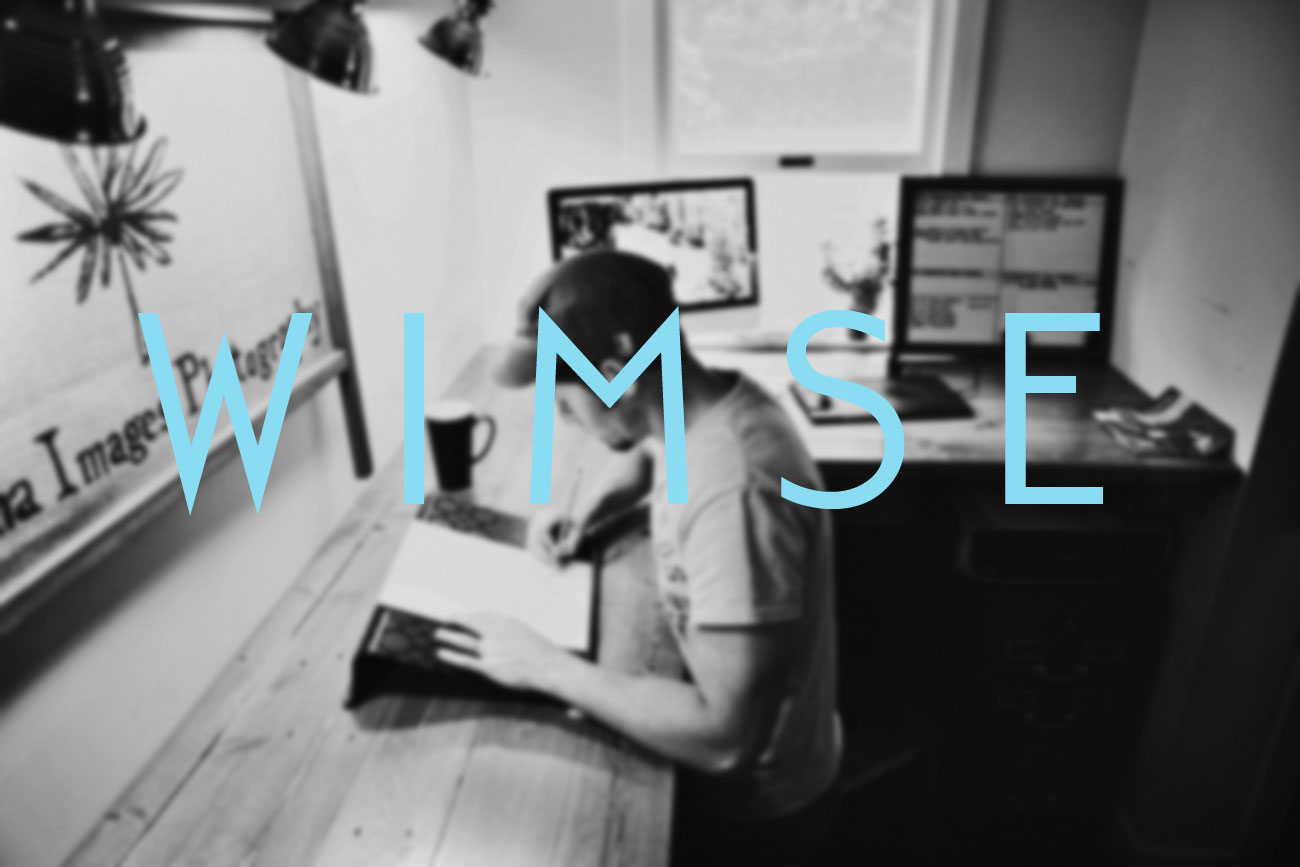
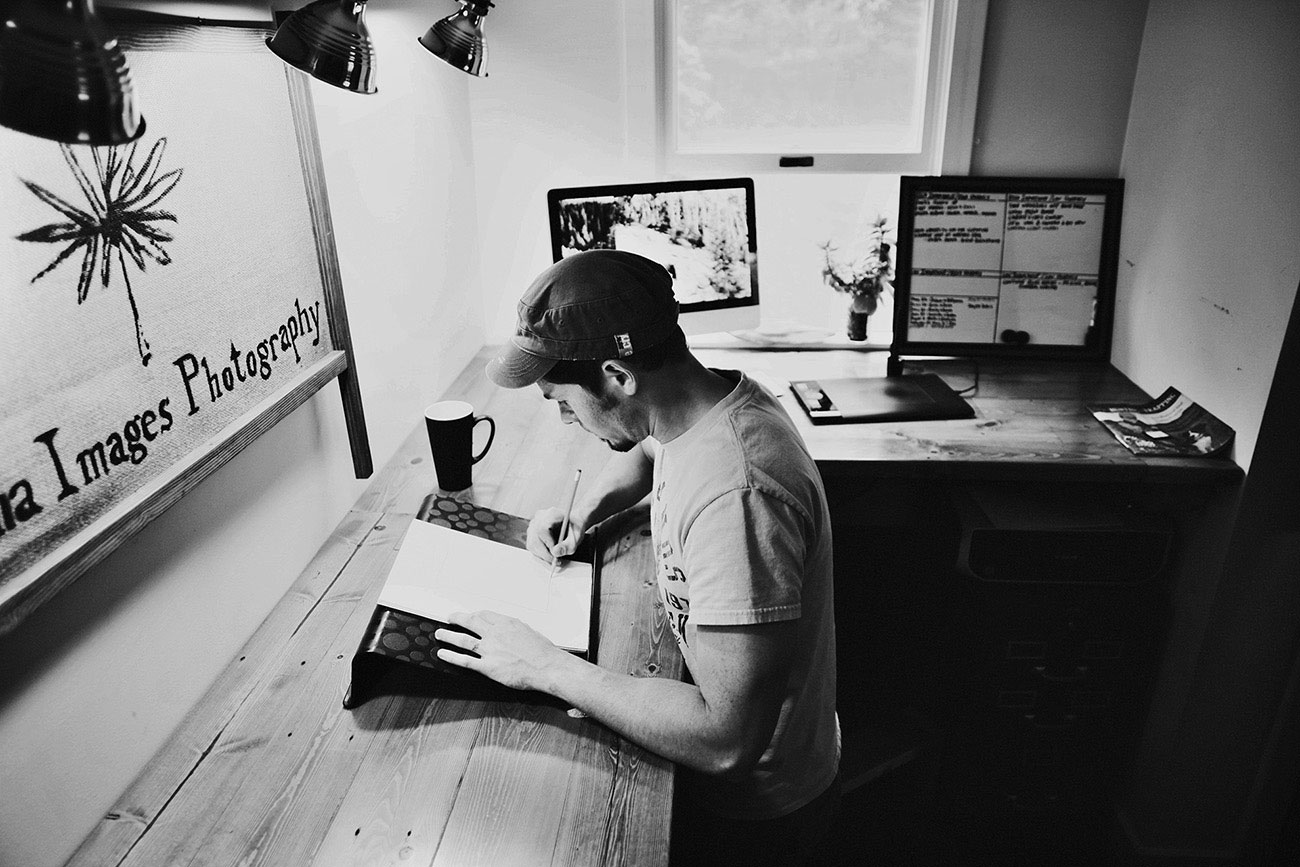
ändrad showcase bald

diff --git a/_includes/showcase.html b/_includes/showcase.html
@@ -3,6 +3,9 @@
     .showcase-wrapper {background-image: url("{{ site.baseurl }}/images/showcase.jpg");}
     </style>
     <div class="showcase-wrapper sticky">
-
+      <div class="showcase-text">
+          <span class="badge lazy" style="color:#8adcf2"><smaller>WIMSE</smaller></span><br>{{ site.project }}<br><a href="{{ site.baseurl }}/list"><button type="button" class="btn btn-default showcase-button">
+uppdateringar</button></a>
+      </div>
     </div>
     <div class="container">

diff --git a/_site/index.html b/_site/index.html
@@ -87,7 +87,10 @@
     .showcase-wrapper {background-image: url("/images/showcase.jpg");}
     </style>
     <div class="showcase-wrapper sticky">
-
+      <div class="showcase-text">
+          <span class="badge lazy" style="color:#8adcf2"><smaller>WIMSE</smaller></span><br>rebeckaray.se<br><a href="/list"><button type="button" class="btn btn-default showcase-button">
+uppdateringar</button></a>
+      </div>
     </div>
     <div class="container">
 
